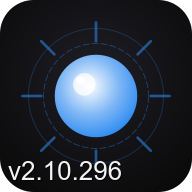
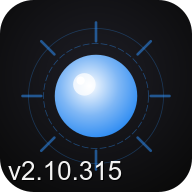
deploy charleslike 2026-06-01T02:33:31Z

Changed region(s): [[0.4062, 0.8125, 0.625, 0.9375]]

diff --git a/games/charleslike/dmloader.js b/games/charleslike/dmloader.js
@@ -230,9 +230,9 @@ var FileLoader = {
 var EngineLoader = {
     arc_sha1: "",
     wasm_sha1: "",
-    wasm_size: 2899628,
+    wasm_size: 2331355,
     wasmjs_sha1: "",
-    wasmjs_size: 281444,
+    wasmjs_size: 268221,
     wasm_pthread_sha1: "",
     wasm_pthread_size: 2000000,
     wasmjs_pthread_sha1: "",